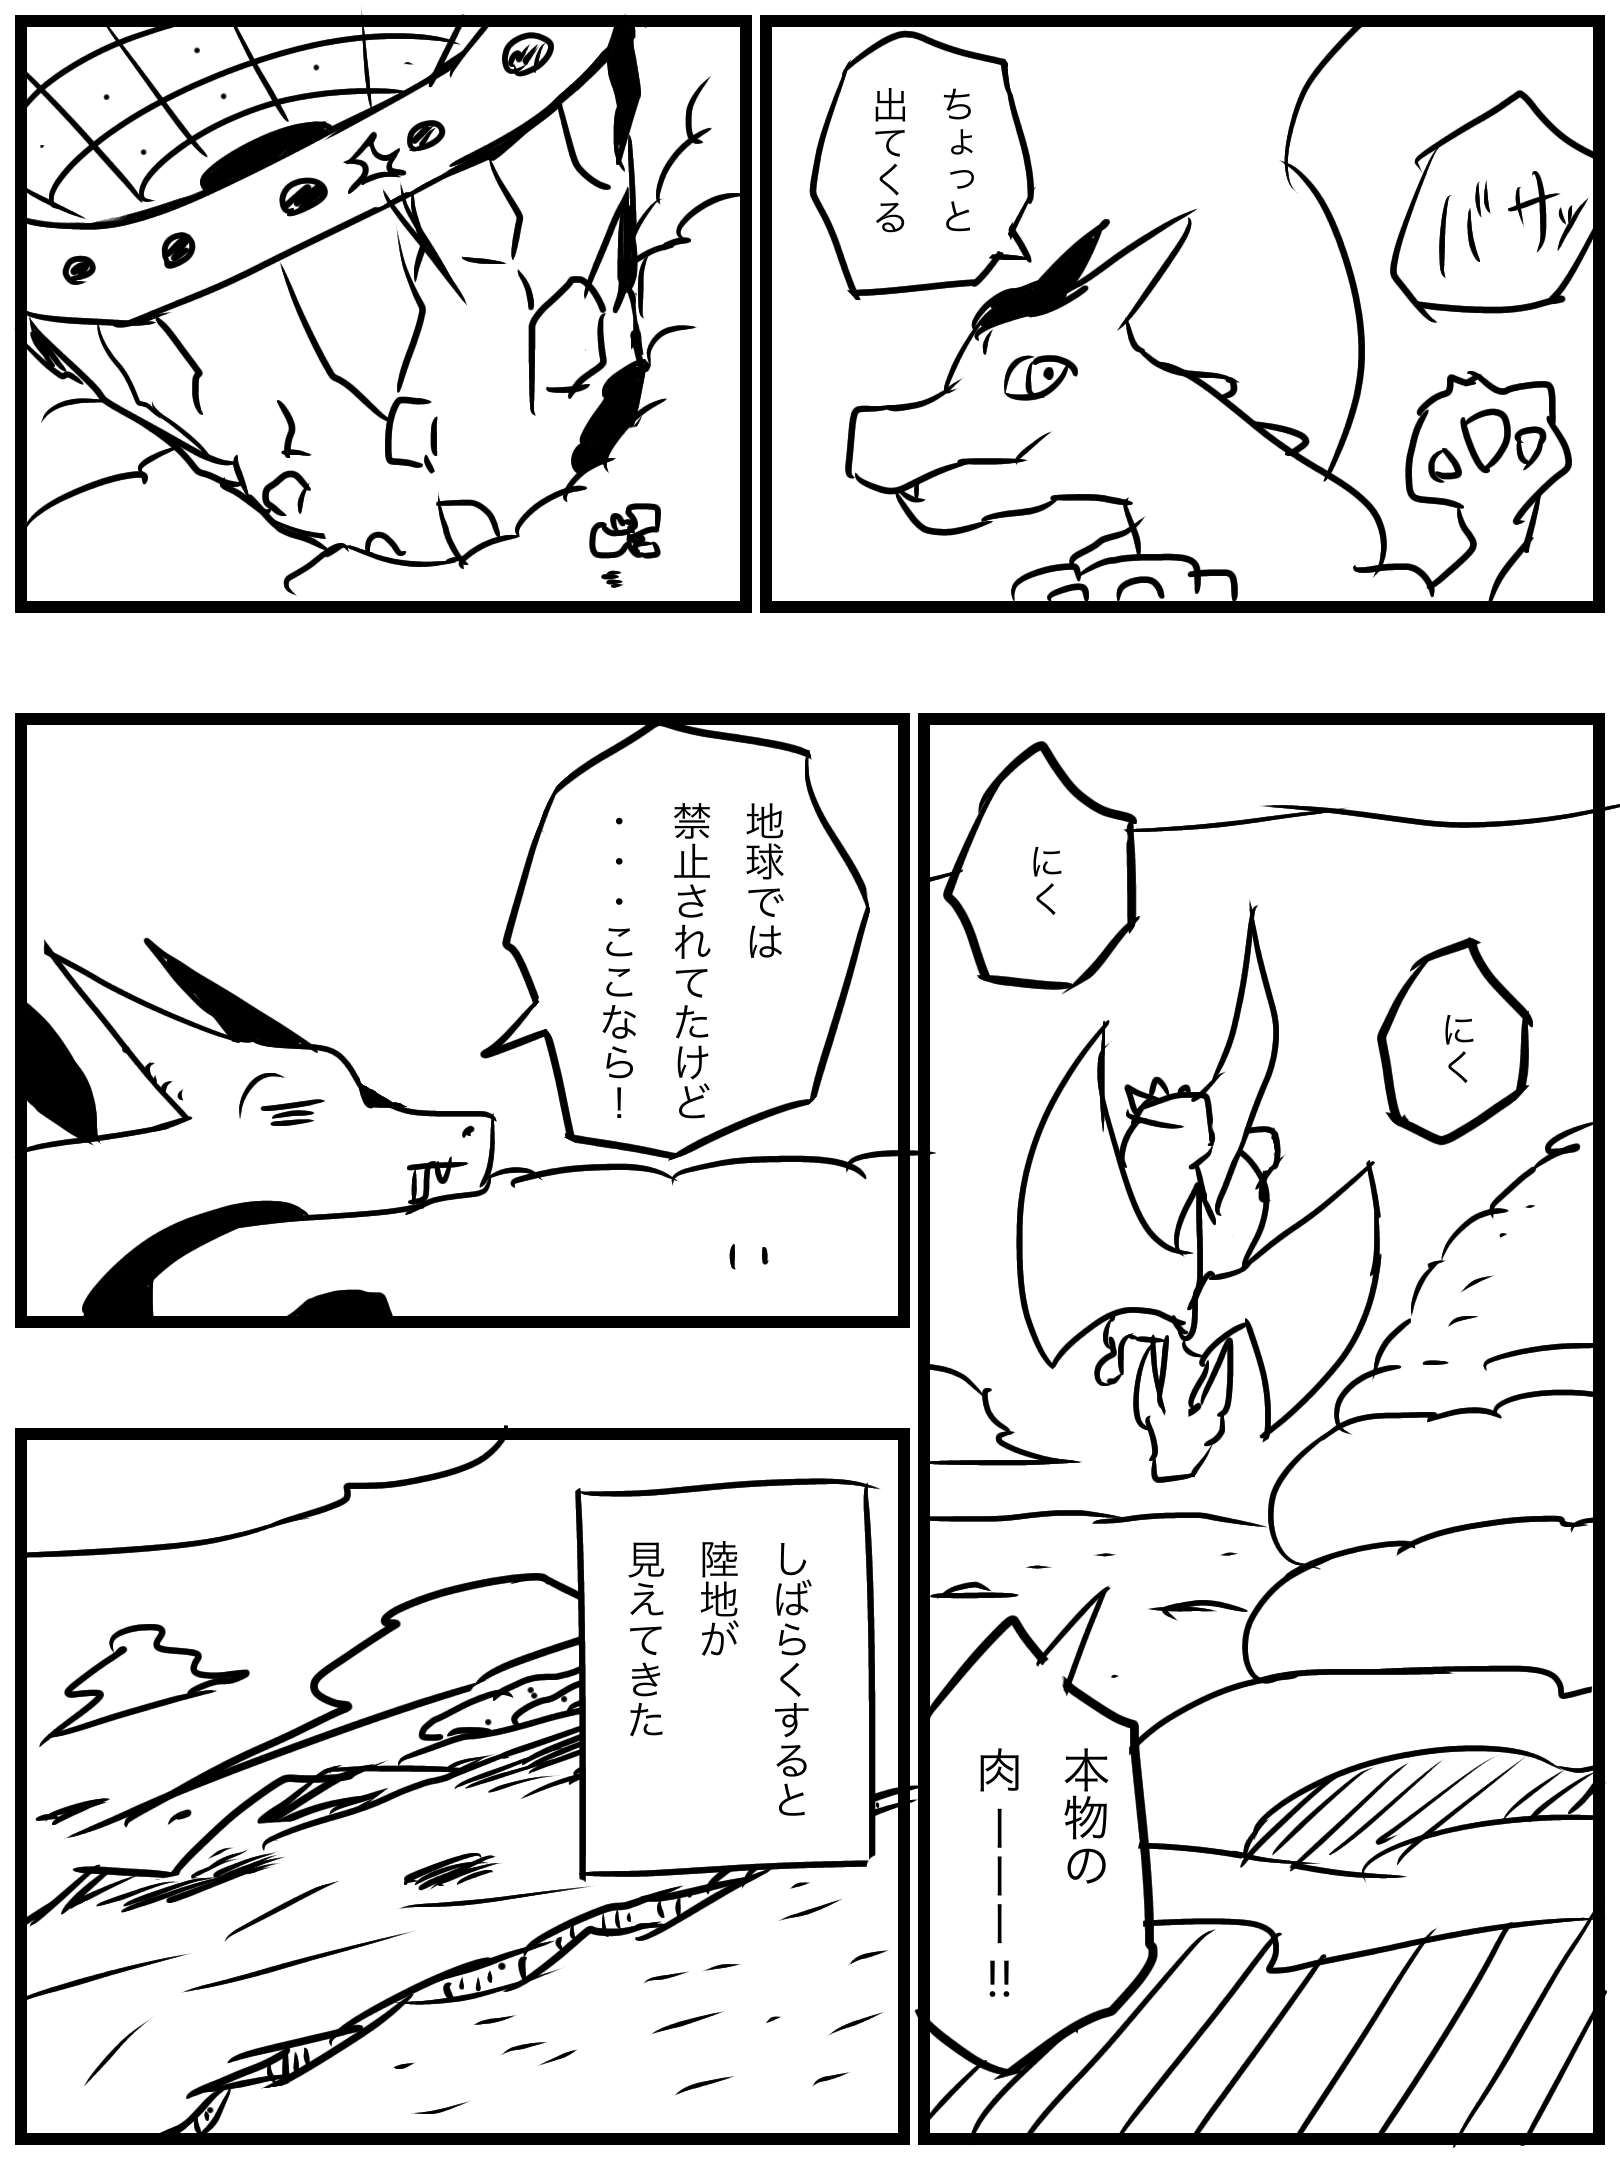
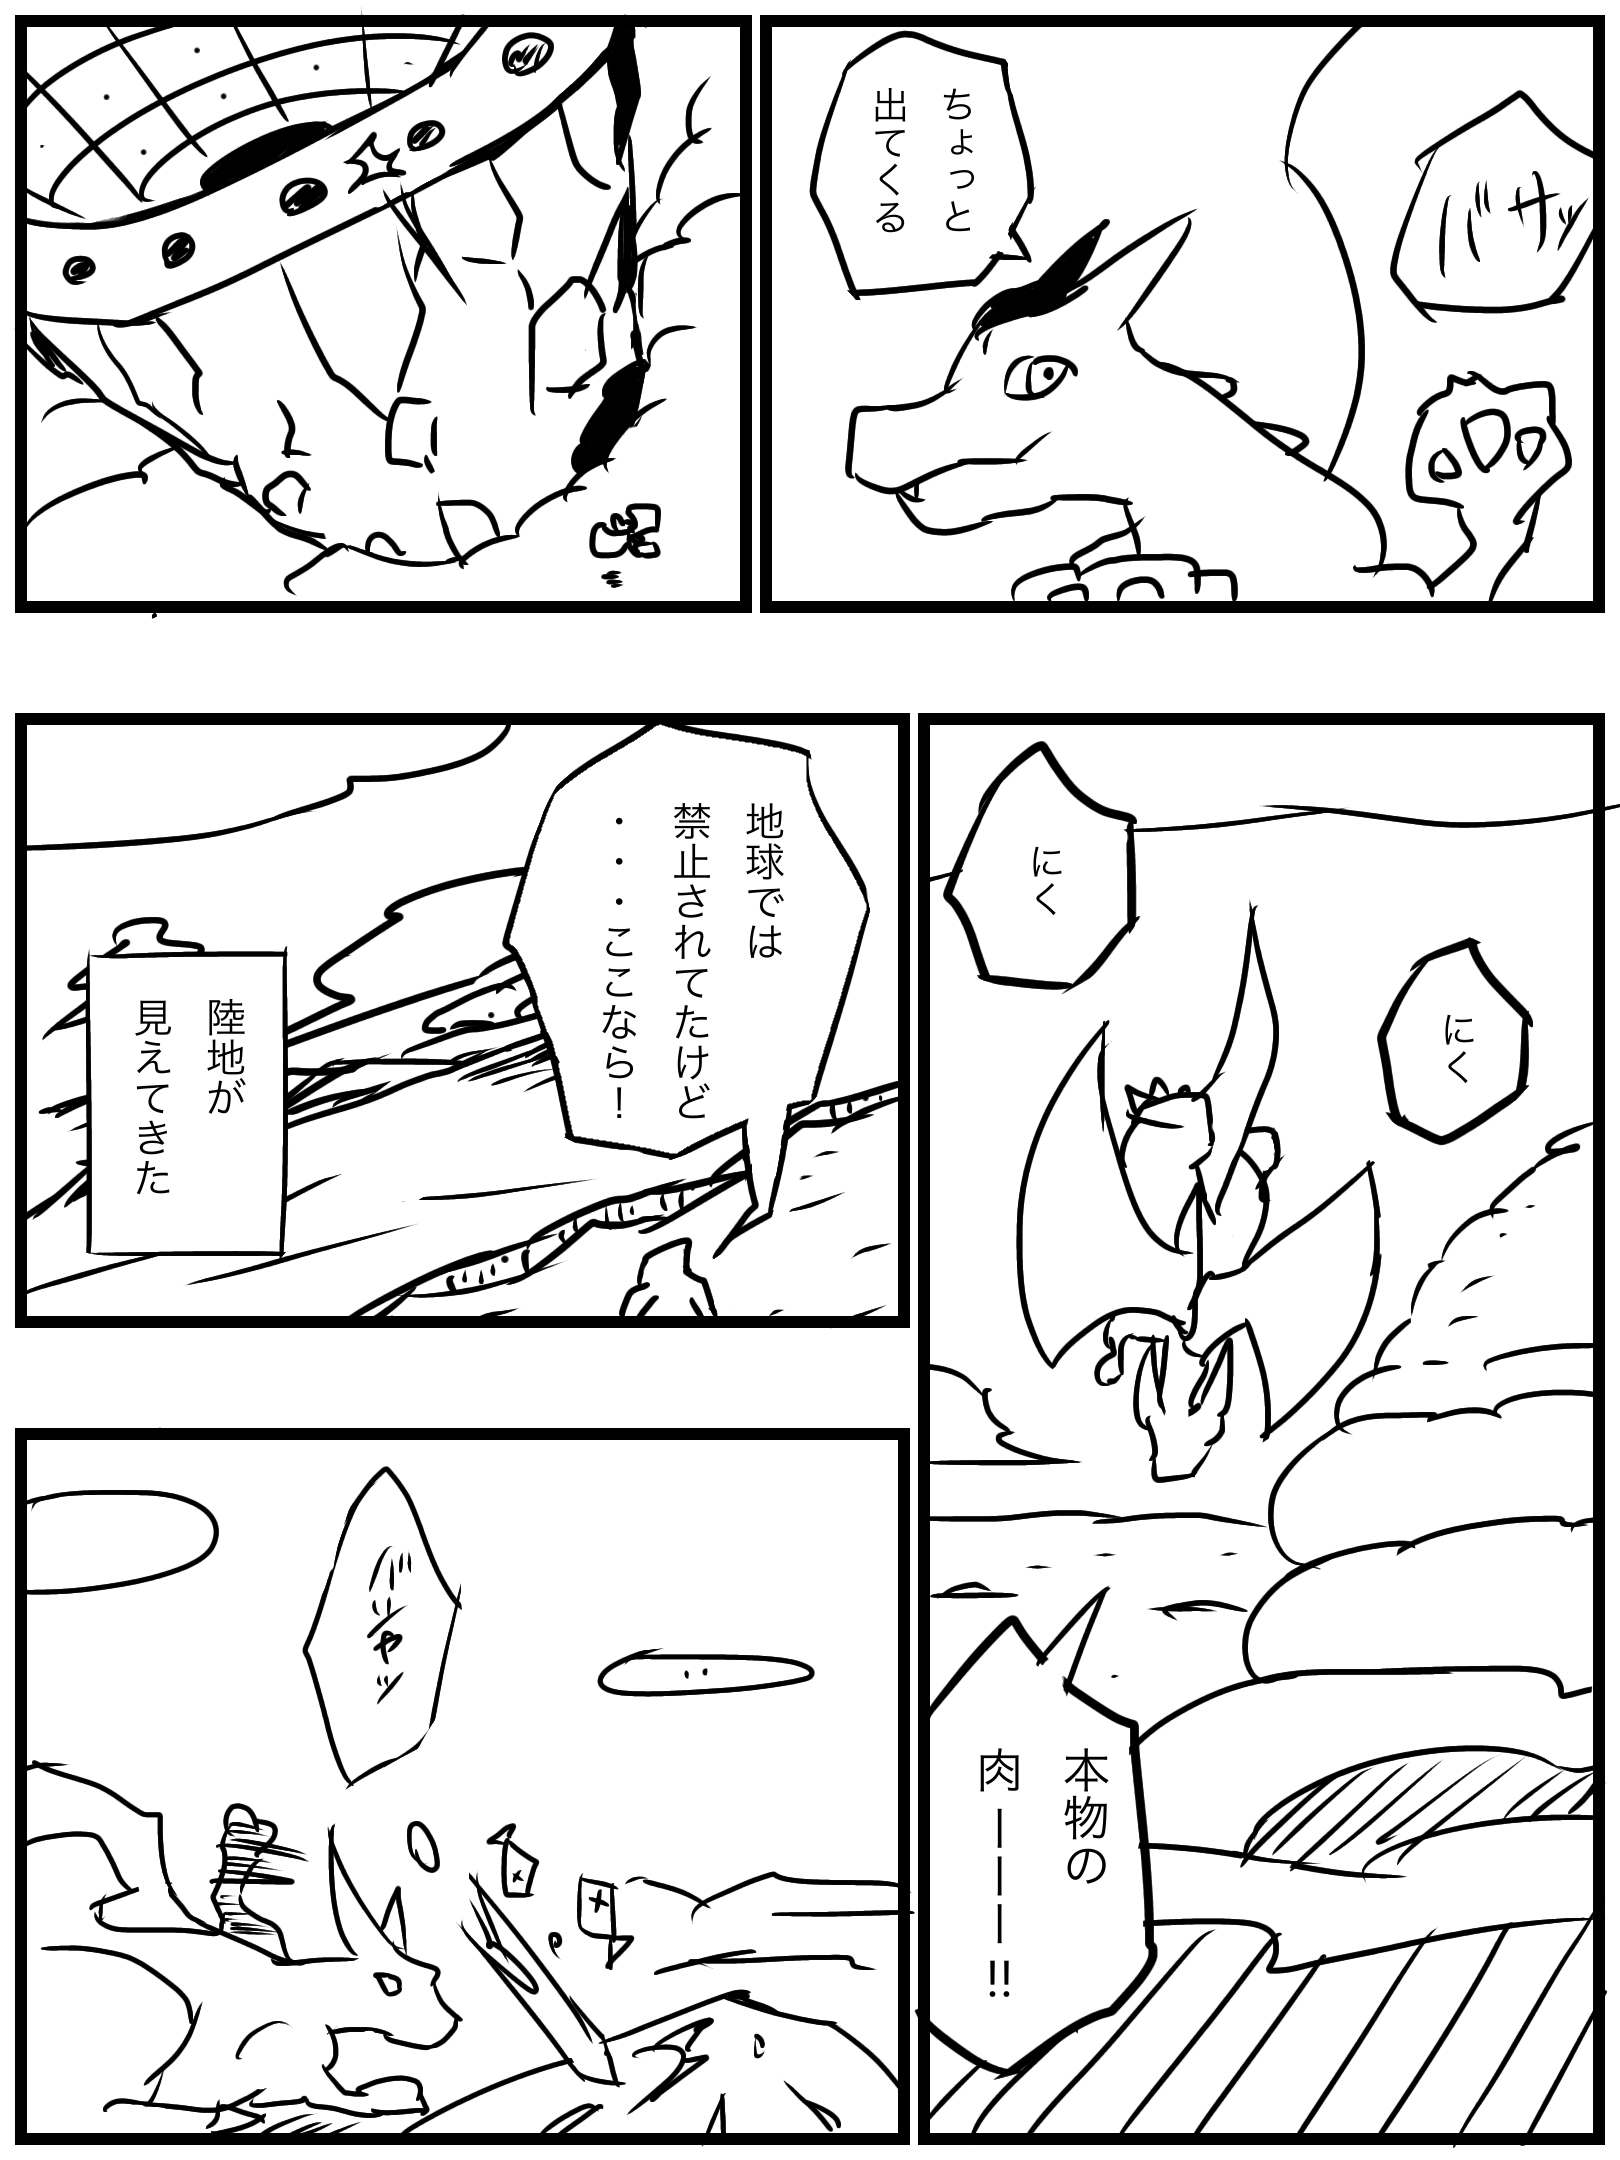
Automated deployment: Tue Aug 11 03:17:12 UTC 2020 e30c7bda23f57bfdebefd90c1f6be34fc11d4d7e

diff --git a/manga/app.js b/manga/app.js
@@ -1,2 +1,2 @@
-(function(e){function t(t){for(var r,s,p=t[0],i=t[1],u=t[2],l=0,d=[];l<p.length;l++)s=p[l],Object.prototype.hasOwnProperty.call(n,s)&&n[s]&&d.push(n[s][0]),n[s]=0;for(r in i)Object.prototype.hasOwnProperty.call(i,r)&&(e[r]=i[r]);c&&c(t);while(d.length)d.shift()();return a.push.apply(a,u||[]),o()}function o(){for(var e,t=0;t<a.length;t++){for(var o=a[t],r=!0,p=1;p<o.length;p++){var i=o[p];0!==n[i]&&(r=!1)}r&&(a.splice(t--,1),e=s(s.s=o[0]))}return e}var r={},n={app:0},a=[];function s(t){if(r[t])return r[t].exports;var o=r[t]={i:t,l:!1,exports:{}};return e[t].call(o.exports,o,o.exports,s),o.l=!0,o.exports}s.m=e,s.c=r,s.d=function(e,t,o){s.o(e,t)||Object.defineProperty(e,t,{enumerable:!0,get:o})},s.r=function(e){"undefined"!==typeof Symbol&&Symbol.toStringTag&&Object.defineProperty(e,Symbol.toStringTag,{value:"Module"}),Object.defineProperty(e,"__esModule",{value:!0})},s.t=function(e,t){if(1&t&&(e=s(e)),8&t)return e;if(4&t&&"object"===typeof e&&e&&e.__esModule)return e;var o=Object.create(null);if(s.r(o),Object.defineProperty(o,"default",{enumerable:!0,value:e}),2&t&&"string"!=typeof e)for(var r in e)s.d(o,r,function(t){return e[t]}.bind(null,r));return o},s.n=function(e){var t=e&&e.__esModule?function(){return e["default"]}:function(){return e};return s.d(t,"a",t),t},s.o=function(e,t){return Object.prototype.hasOwnProperty.call(e,t)},s.p="/";var p=window["webpackJsonp"]=window["webpackJsonp"]||[],i=p.push.bind(p);p.push=t,p=p.slice();for(var u=0;u<p.length;u++)t(p[u]);var c=i;a.push([0,"chunk-vendors"]),o()})({0:function(e,t,o){e.exports=o("56d7")},"034f":function(e,t,o){"use strict";var r=o("85ec"),n=o.n(r);n.a},"56d7":function(e,t,o){"use strict";o.r(t);o("e260"),o("e6cf"),o("cca6"),o("a79d");var r=o("2b0e"),n=function(){var e=this,t=e.$createElement,o=e._self._c||t;return o("hooper",{attrs:{settings:e.hooperSettings}},[e._l(e.products,(function(t,r){return o("slide",{key:t},[o("img",{attrs:{src:"/manga/"+r+".png"}}),o("div",{staticClass:"page_n"},[e._v(e._s(t))])])})),o("hooper-navigation",{attrs:{slot:"hooper-addons"},slot:"hooper-addons"}),o("hooper-pagination",{attrs:{slot:"hooper-addons"},slot:"hooper-addons"}),o("hooper-progress",{attrs:{slot:"hooper-addons"},slot:"hooper-addons"})],2)},a=[],s=(o("a9e3"),o("d3b7"),o("ddb0"),o("2909")),p=o("7e04"),i=(o("955f"),{name:"App",components:{Hooper:p["a"],Slide:p["e"],HooperProgress:p["d"],HooperPagination:p["c"],HooperNavigation:p["b"]},data:function(){return{products:Object(s["a"])(Array(Number("26")).keys()),hooperSettings:{itemsToShow:1,centerMode:!0}}}}),u=i,c=(o("034f"),o("2877")),l=Object(c["a"])(u,n,a,!1,null,null,null),d=l.exports;r["a"].config.productionTip=!1,new r["a"]({render:function(e){return e(d)}}).$mount("#app")},"85ec":function(e,t,o){}});
+(function(e){function t(t){for(var r,s,p=t[0],i=t[1],u=t[2],l=0,d=[];l<p.length;l++)s=p[l],Object.prototype.hasOwnProperty.call(n,s)&&n[s]&&d.push(n[s][0]),n[s]=0;for(r in i)Object.prototype.hasOwnProperty.call(i,r)&&(e[r]=i[r]);c&&c(t);while(d.length)d.shift()();return a.push.apply(a,u||[]),o()}function o(){for(var e,t=0;t<a.length;t++){for(var o=a[t],r=!0,p=1;p<o.length;p++){var i=o[p];0!==n[i]&&(r=!1)}r&&(a.splice(t--,1),e=s(s.s=o[0]))}return e}var r={},n={app:0},a=[];function s(t){if(r[t])return r[t].exports;var o=r[t]={i:t,l:!1,exports:{}};return e[t].call(o.exports,o,o.exports,s),o.l=!0,o.exports}s.m=e,s.c=r,s.d=function(e,t,o){s.o(e,t)||Object.defineProperty(e,t,{enumerable:!0,get:o})},s.r=function(e){"undefined"!==typeof Symbol&&Symbol.toStringTag&&Object.defineProperty(e,Symbol.toStringTag,{value:"Module"}),Object.defineProperty(e,"__esModule",{value:!0})},s.t=function(e,t){if(1&t&&(e=s(e)),8&t)return e;if(4&t&&"object"===typeof e&&e&&e.__esModule)return e;var o=Object.create(null);if(s.r(o),Object.defineProperty(o,"default",{enumerable:!0,value:e}),2&t&&"string"!=typeof e)for(var r in e)s.d(o,r,function(t){return e[t]}.bind(null,r));return o},s.n=function(e){var t=e&&e.__esModule?function(){return e["default"]}:function(){return e};return s.d(t,"a",t),t},s.o=function(e,t){return Object.prototype.hasOwnProperty.call(e,t)},s.p="/";var p=window["webpackJsonp"]=window["webpackJsonp"]||[],i=p.push.bind(p);p.push=t,p=p.slice();for(var u=0;u<p.length;u++)t(p[u]);var c=i;a.push([0,"chunk-vendors"]),o()})({0:function(e,t,o){e.exports=o("56d7")},"034f":function(e,t,o){"use strict";var r=o("85ec"),n=o.n(r);n.a},"56d7":function(e,t,o){"use strict";o.r(t);o("e260"),o("e6cf"),o("cca6"),o("a79d");var r=o("2b0e"),n=function(){var e=this,t=e.$createElement,o=e._self._c||t;return o("hooper",{attrs:{settings:e.hooperSettings}},[e._l(e.products,(function(t,r){return o("slide",{key:t},[o("img",{attrs:{src:"/manga/"+r+".png"}}),o("div",{staticClass:"page_n"},[e._v(e._s(t))])])})),o("hooper-navigation",{attrs:{slot:"hooper-addons"},slot:"hooper-addons"}),o("hooper-pagination",{attrs:{slot:"hooper-addons"},slot:"hooper-addons"}),o("hooper-progress",{attrs:{slot:"hooper-addons"},slot:"hooper-addons"})],2)},a=[],s=(o("a9e3"),o("d3b7"),o("ddb0"),o("2909")),p=o("7e04"),i=(o("955f"),{name:"App",components:{Hooper:p["a"],Slide:p["e"],HooperProgress:p["d"],HooperPagination:p["c"],HooperNavigation:p["b"]},data:function(){return{products:Object(s["a"])(Array(Number("28")).keys()),hooperSettings:{itemsToShow:1,centerMode:!0}}}}),u=i,c=(o("034f"),o("2877")),l=Object(c["a"])(u,n,a,!1,null,null,null),d=l.exports;r["a"].config.productionTip=!1,new r["a"]({render:function(e){return e(d)}}).$mount("#app")},"85ec":function(e,t,o){}});
 //# sourceMappingURL=app.js.map
